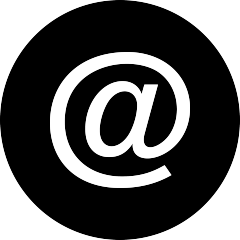
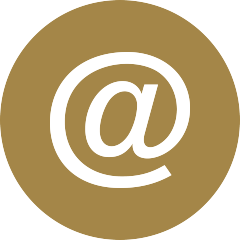
fix(drawer): colors it gold, fixes disappearing border

diff --git a/source/templates/generic/contact-form-drawer.sass b/source/templates/generic/contact-form-drawer.sass
@@ -3,7 +3,8 @@
 	position: fixed
 	background-color: white
 	bottom: 0
-	transition: left ease-out 0.5s
+	border: 0px solid $gold
+	transition: left ease-out 0.5s, border-width ease-out 0.5s
 
 	width: 100%
 	top: 0
@@ -21,9 +22,8 @@
 
 	&.open
 		left: 0
-		border:
-			right: 1px solid $gray
-			top: 1px solid $gray
+		border-top-width: 2px
+		border-right-width: 2px
 
 		.drawer-handle-container
 			opacity: 1
@@ -58,9 +58,9 @@
 		-moz-border-radius-topright: 2rem
 		border-top-right-radius: 2rem
 		border:
-			right: 1px solid $gray
-			top: 1px solid $gray
+			right: 2px solid $gold
+			top: 2px solid $gold
 
-		opacity: 0.2
+		opacity: 0.5
 		&:hover
 			opacity: 1
